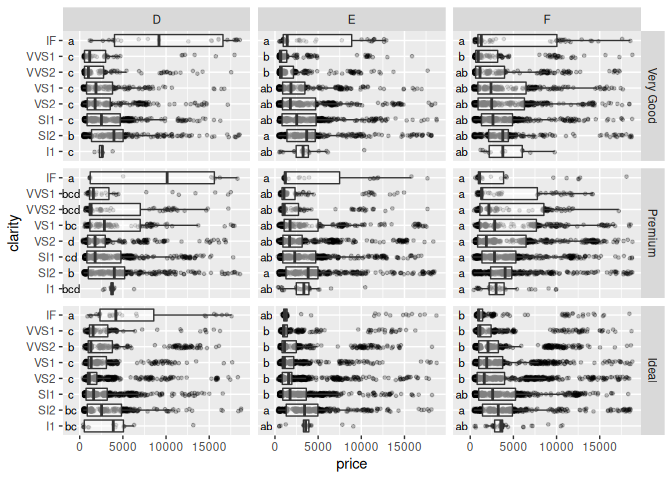
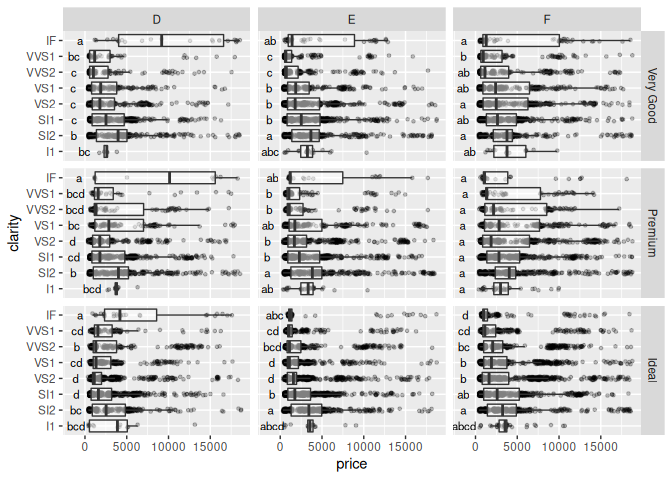
update README

diff --git a/README.md b/README.md
@@ -30,18 +30,21 @@ You can install tukeygrps from github using remotes:
 Examples
 --------
 
-### Parametric multiple comparisons
-
-The distributions and sample numbers in these example datasets don’t
-always allow for the use of a parametric test such as the Tukey-HSD.
-Before you use this function, make sure that your observations are:
+*Parametric* multiple comparisons like the Tukey HSD (honest significant
+differences) test shown in section **1** are only recommended in cases
+where the data fulfill all of the following conditions:
 
 -   **normally** distributed
 -   **homoscedastic**
 -   **independent** within and between groups
 -   **equal** in sample size
 
-If they are **not**, scroll down to the *non-parametric comparisons*.
+If you have strong evidence that they do not fulfill these conditions,
+consider a *non-parametric* method of comparison, like the
+Kruskal-Wallis test followed by Dunn’s multiple comparisons shown in
+section **2**.
+
+### 1. Parametric multiple comparisons
 
 Here we use letter\_groups() with stat\_method = “tukey” to add letters
 to a geom\_point plot. Alpha is set to 0.001, the letters are printed at
@@ -65,13 +68,13 @@ y = 0, and there are no additional grouping variables.
     tukey_letters <- letter_groups(mpg, hwy, class, "tukey", print_position = 0, stat_alpha = 0.001)
 
     head(tukey_letters)
-    #>                mean groups      class hwy
-    #> compact    28.29787      a    compact   0
-    #> subcompact 28.14286      a subcompact   0
-    #> midsize    27.29268      a    midsize   0
-    #> 2seater    24.80000     ab    2seater   0
-    #> minivan    22.36364     bc    minivan   0
-    #> suv        18.12903     cd        suv   0
+    #>        class Letters hwy
+    #> 1    compact       a   0
+    #> 2 subcompact       a   0
+    #> 3    midsize       a   0
+    #> 4    2seater      ab   0
+    #> 5    minivan      bc   0
+    #> 6        suv      cd   0
 
     ggplot() +
       geom_jitter(
@@ -87,7 +90,7 @@ y = 0, and there are no additional grouping variables.
         aes(
           x = class,
           y = hwy,
-          label = groups
+          label = Letters
         )
       ) +
       coord_flip()
@@ -95,7 +98,8 @@ y = 0, and there are no additional grouping variables.
 <img src="man/figures/README-example no groups-1.png" width="100%" />
 
 Here we split the statistical analysis by two grouping variables (“cut”
-and “color”), set the alpha to 0.05 and print the letters at y = -1000.
+and “color”), set the alpha to 0.05 and print the letters 0.5 standard
+deviations below the respective minimum value.
 
     library(tukeygrps)
     library(tidyverse)
@@ -121,21 +125,22 @@ and “color”), set the alpha to 0.05 and print the letters at y = -1000.
       "tukey",
       cut,
       color,
-      print_position = -1000,
+      print_position = "below",
+      print_adjust = 0.5,
       stat_alpha = 0.05,
     )
 
     head(tukey_letters)
-    #> # A tibble: 6 x 6
+    #> # A tibble: 6 x 5
     #> # Groups:   cut, color [1]
-    #>   cut       color   mean groups clarity price
-    #>   <ord>     <ord>  <dbl> <chr>  <chr>   <dbl>
-    #> 1 Very Good D     10298. a      IF      -1000
-    #> 2 Very Good D      4425. b      SI2     -1000
-    #> 3 Very Good D      3235. c      SI1     -1000
-    #> 4 Very Good D      3145. c      VS2     -1000
-    #> 5 Very Good D      2988. c      VVS1    -1000
-    #> 6 Very Good D      2955. c      VS1     -1000
+    #>   cut       color Letters clarity  price
+    #>   <ord>     <ord> <chr>   <chr>    <dbl>
+    #> 1 Very Good D     a       IF       -591.
+    #> 2 Very Good D     b       SI2     -1349.
+    #> 3 Very Good D     c       SI1     -1287.
+    #> 4 Very Good D     c       VS2     -1405.
+    #> 5 Very Good D     bc      VVS1    -1304.
+    #> 6 Very Good D     c       VS1     -1405.
 
     ggplot() +
       geom_jitter(
@@ -162,7 +167,7 @@ and “color”), set the alpha to 0.05 and print the letters at y = -1000.
         aes(
           x = clarity,
           y = price,
-          label = groups
+          label = Letters
         ),
         size = 3
       ) +
@@ -171,12 +176,12 @@ and “color”), set the alpha to 0.05 and print the letters at y = -1000.
 
 <img src="man/figures/README-example-1.png" width="100%" />
 
-### Non-parametric multiple comparisons
+### 2. Non-parametric multiple comparisons
 
 In case the above requirements for parametric tests are not met, we can
 fall back to the non-parametric Kruskal–Wallis test followed by Dunn’s
-test and optional *p*-value adjustment for multiple comparisons. Here we
-place the letter codes 0.5 standard deviations above the maximum values.
+test and *p*-value adjustment for multiple comparisons. Here we place
+the letter codes 0.5 standard deviations above the maximum values.
 
     library(tukeygrps)
     library(tidyverse)
@@ -184,16 +189,6 @@ place the letter codes 0.5 standard deviations above the maximum values.
     data(diamonds)
     diamonds <- diamonds %>%
       filter(cut %in% c("Ideal", "Premium", "Very Good") & color %in% c("D", "E", "F"))
-    head(diamonds)
-    #> # A tibble: 6 x 10
-    #>   carat cut       color clarity depth table price     x     y     z
-    #>   <dbl> <ord>     <ord> <ord>   <dbl> <dbl> <int> <dbl> <dbl> <dbl>
-    #> 1  0.23 Ideal     E     SI2      61.5    55   326  3.95  3.98  2.43
-    #> 2  0.21 Premium   E     SI1      59.8    61   326  3.89  3.84  2.31
-    #> 3  0.22 Premium   F     SI1      60.4    61   342  3.88  3.84  2.33
-    #> 4  0.2  Premium   E     SI2      60.2    62   345  3.79  3.75  2.27
-    #> 5  0.32 Premium   E     I1       60.9    58   345  4.38  4.42  2.68
-    #> 6  0.23 Very Good E     VS2      63.8    55   352  3.85  3.92  2.48
 
     kruskal_letters <- letter_groups(
       diamonds,
@@ -203,20 +198,11 @@ place the letter codes 0.5 standard deviations above the maximum values.
       cut,
       color,
       print_position = "above",
-      print_adjust = 0.5
+      print_adjust = 0.5,
+      p_adj_method = "holm"
     )
 
     head(kruskal_letters)
-    #> # A tibble: 6 x 6
-    #> # Groups:   cut, color [1]
-    #>   cut       color  mean groups clarity  price
-    #>   <ord>     <ord> <dbl> <chr>  <chr>    <dbl>
-    #> 1 Very Good D     1243. a      IF      20304.
-    #> 2 Very Good D      895. b      SI2     20288.
-    #> 3 Very Good D      794. bc     I1       5578.
-    #> 4 Very Good D      765. c      SI1     18048.
-    #> 5 Very Good D      731. c      VS2     18915.
-    #> 6 Very Good D      686. c      VS1     18512.
 
     ggplot() +
       geom_jitter(
@@ -243,7 +229,7 @@ place the letter codes 0.5 standard deviations above the maximum values.
         aes(
           x = clarity,
           y = price,
-          label = groups
+          label = Letters
         ),
         size = 3
       ) +
